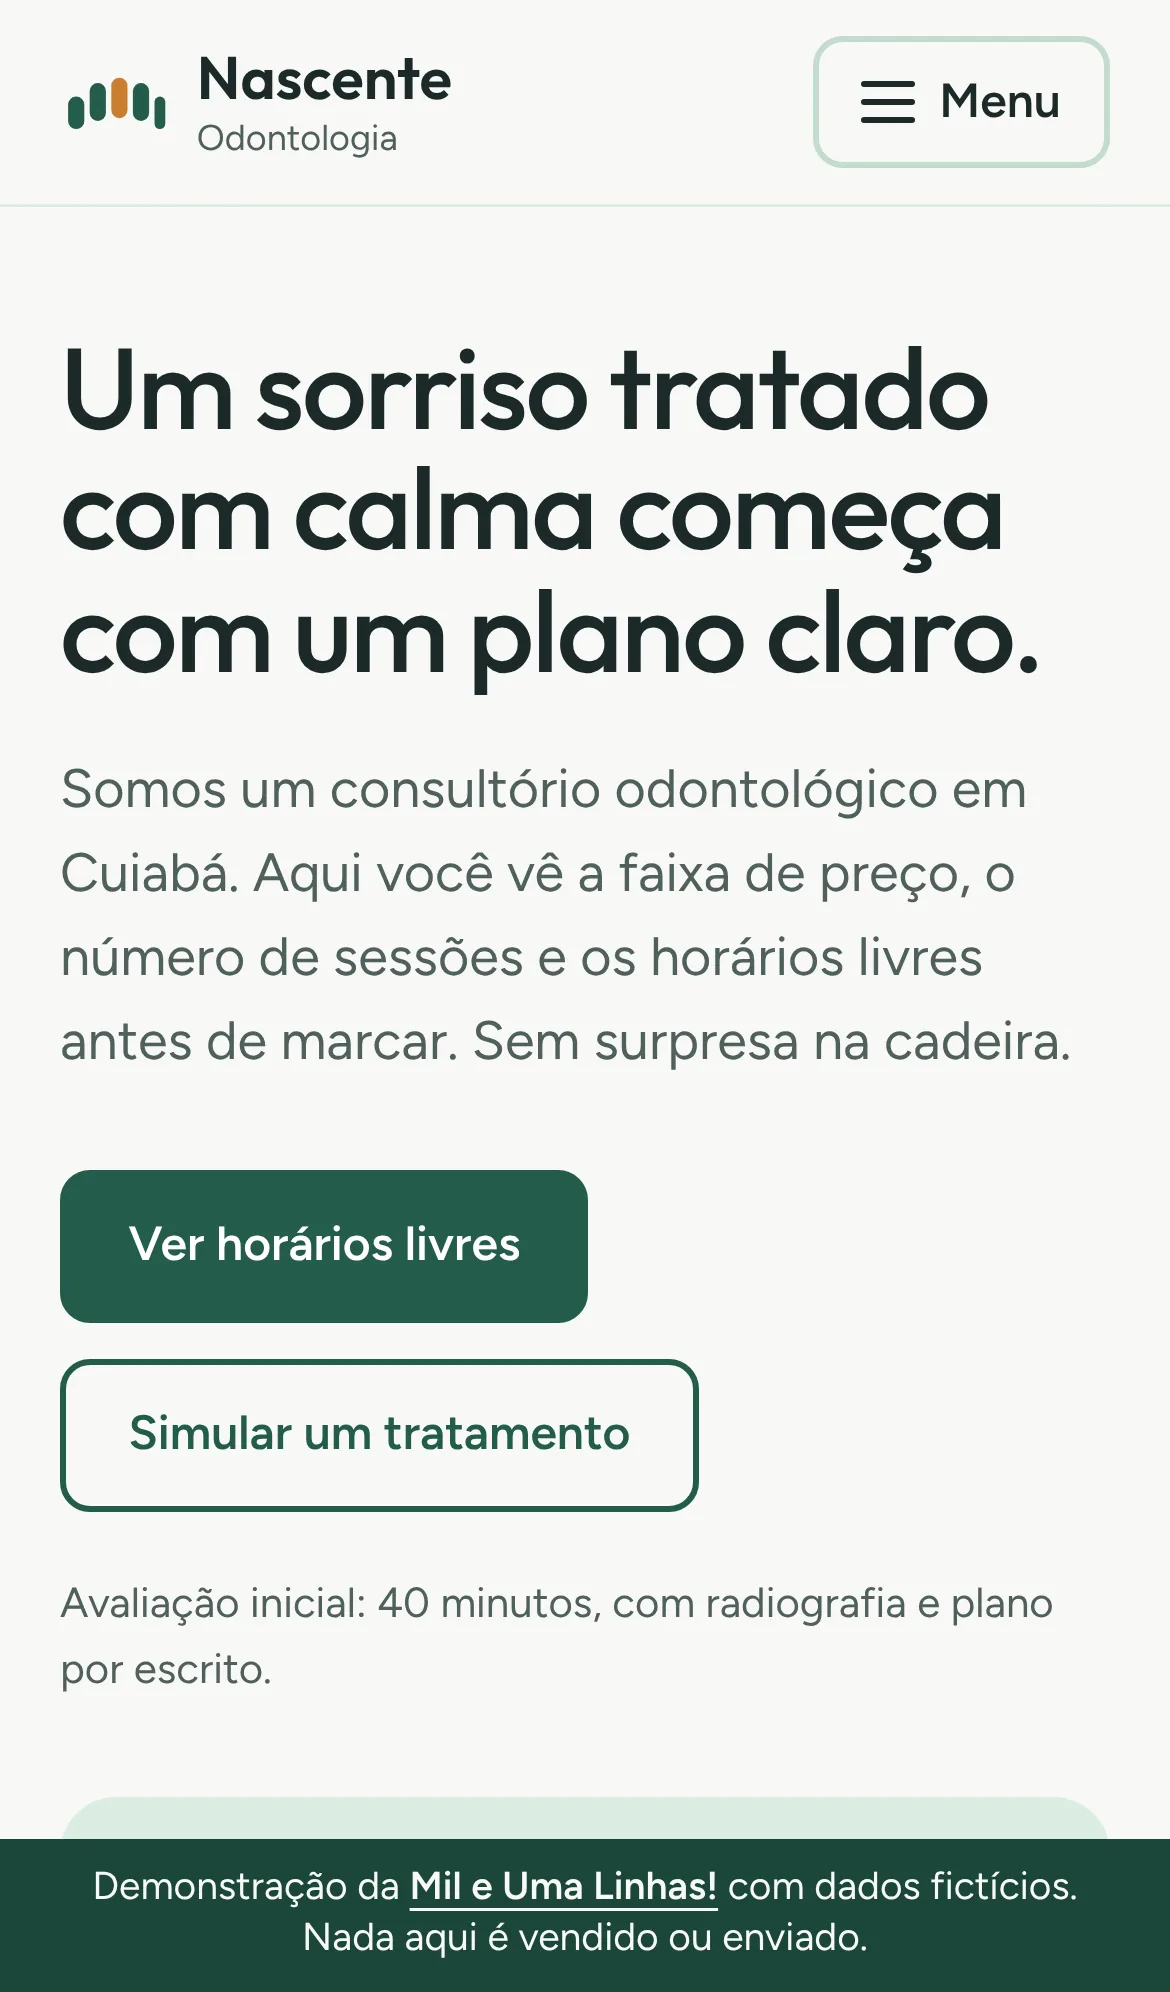
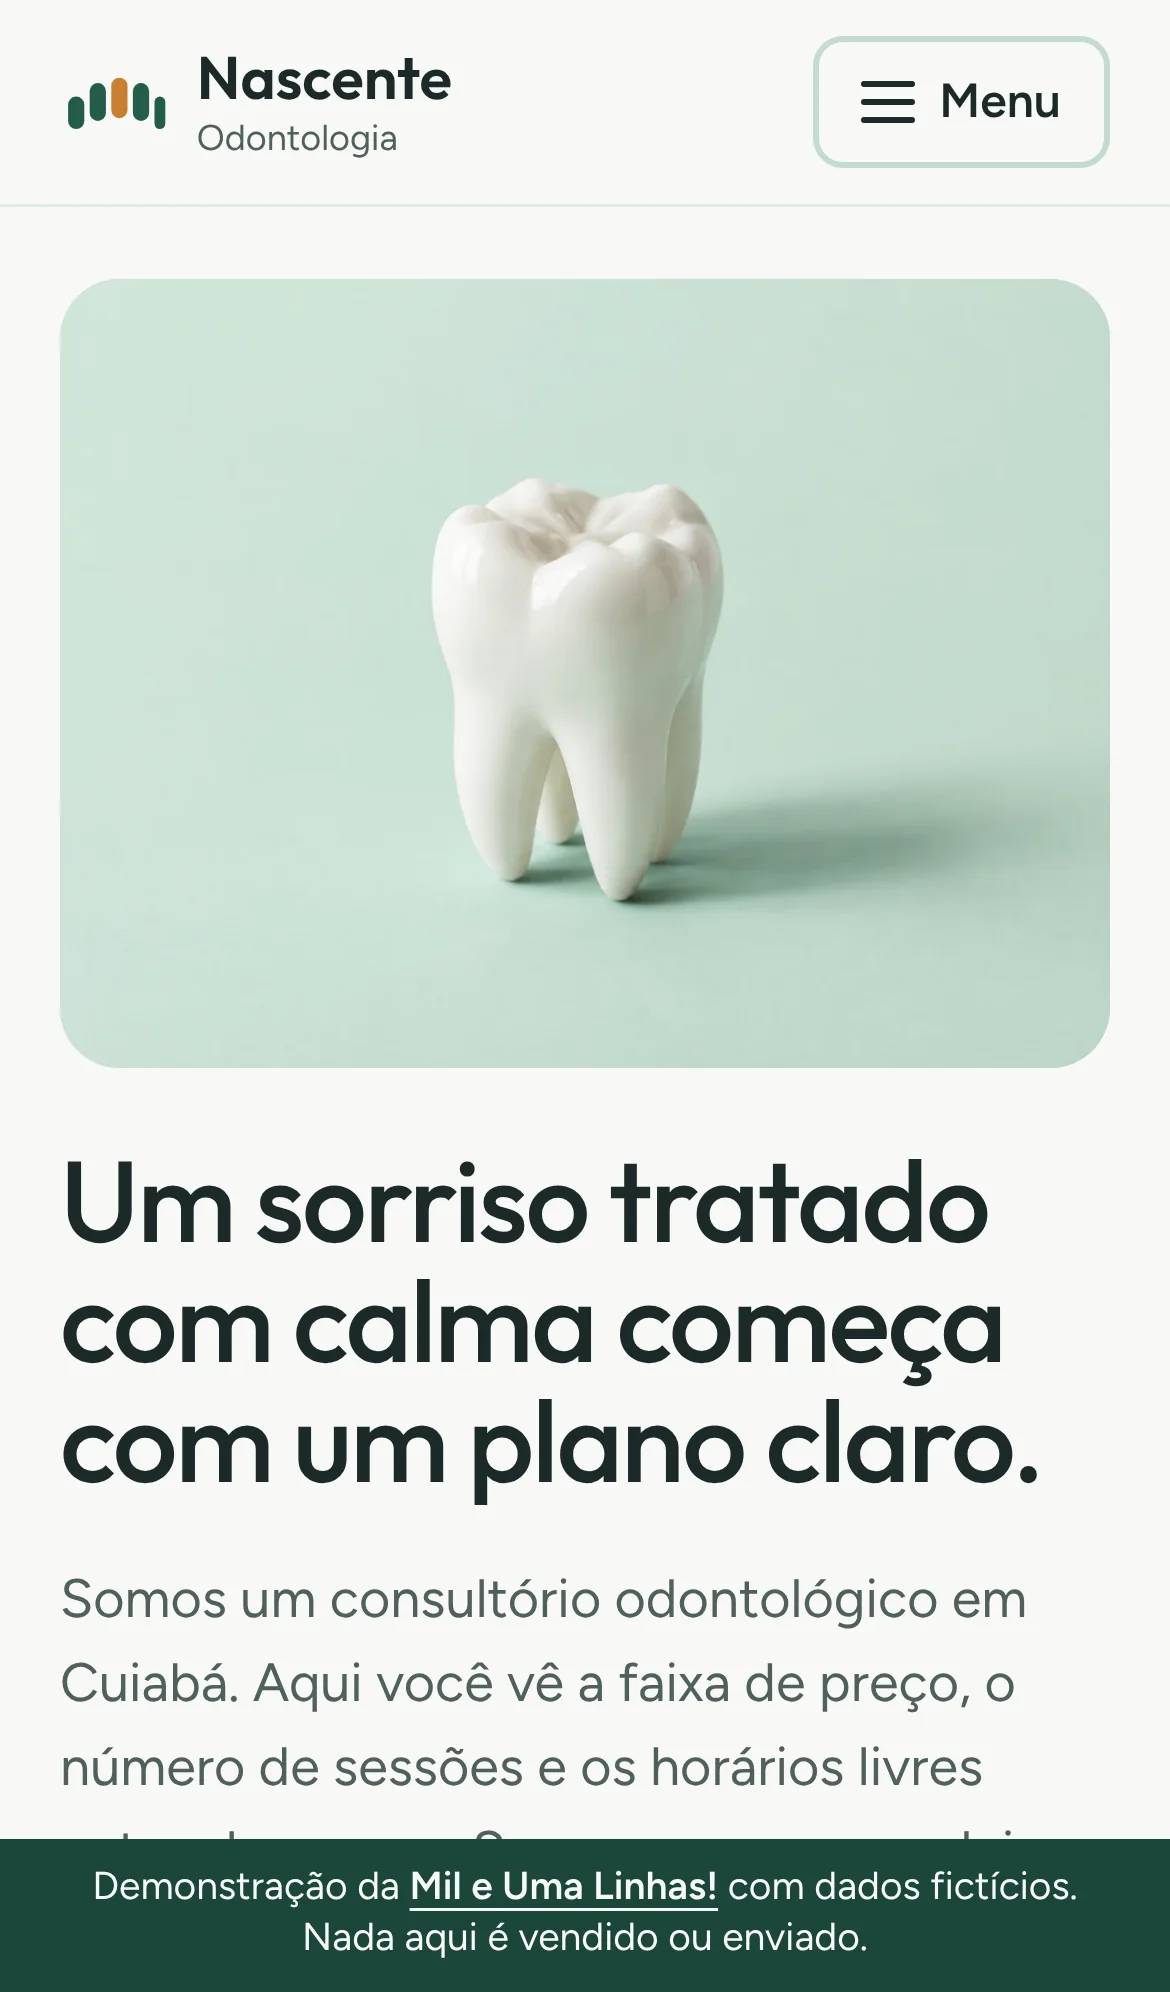
Troca o hero desenhado por foto gerada por IA
Substitui o arco de dentes em SVG do hero por uma foto de um molar de
porcelana sobre fundo verde-menta (img/hero.webp, 1440x1080, gerada por
IA no Canva e ilustrativa).

- index.html: img.hero-foto com width/height, alt descritivo e
  fetchpriority=high dentro de um contêiner 4:3; CSP mantida.
- css/estilo.css: contêiner com aspect-ratio 4/3, object-fit cover,
  cantos de 20 px (28 px no computador) e cor média da foto como fundo
  enquanto carrega; no celular a foto abre a página e o texto vem logo
  abaixo; removidos os estilos e animações do arco SVG; a abertura passa
  a ser uma leve ampliação da foto, desligada com reduced-motion.
- tests/site.cjs: confere que a foto carregou, tem alt, 4:3, cabe na tela
  e que nenhum texto do hero fica por cima dela.
- docs/identidade.md, README.md, docs/vistoria.md: descrevem a foto, o
  aviso de que é gerada por IA e o prompt resumido.
- docs/capa-desktop.webp e docs/capa-celular.webp refeitas.

Claude-Session: https://claude.ai/code/session_015DVsuVad392kn1wvAjF541

diff --git a/css/estilo.css b/css/estilo.css
@@ -223,9 +223,9 @@ code { font-family: ui-monospace, "Cascadia Mono", Menlo, monospace; font-size: 
 .hero {
   max-width: var(--largura);
   margin: 0 auto;
-  padding: 2.5rem var(--margem) 3rem;
+  padding: 1.5rem var(--margem) 3rem;
   display: grid;
-  gap: 2rem;
+  gap: 1.5rem;
   align-items: center;
 }
 .hero h1 {
@@ -247,40 +247,38 @@ code { font-family: ui-monospace, "Cascadia Mono", Menlo, monospace; font-size: 
   gap: 0.75rem;
 }
 .hero-nota { margin-top: 1.25rem; font-size: 0.875rem; color: var(--pedra); }
-.hero-imagem { max-width: 560px; }
-.arco { width: 100%; height: auto; }
-.arco-fundo { fill: var(--hortela); }
-.dente { fill: var(--branco); stroke: var(--hortela-escura); stroke-width: 2; }
-.dente-brilho { fill: var(--branco); }
-.arco-linha { fill: none; stroke: var(--cerrado); stroke-width: 3; stroke-linecap: round; }
-.arco-ponto { fill: var(--mel); }
+.hero-imagem {
+  max-width: 560px;
+  width: 100%;
+  aspect-ratio: 4 / 3;
+  border-radius: 20px;
+  overflow: hidden;
+  background: #C6DACE; /* média da foto: aparece enquanto ela carrega */
+}
+@media (max-width: 899px) {
+  .hero-imagem { order: -1; } /* no celular a foto abre a página, o texto vem logo abaixo */
+}
+.hero-foto {
+  display: block;
+  width: 100%;
+  height: 100%;
+  object-fit: cover;
+}
 
 @media (min-width: 900px) {
   .hero {
     grid-template-columns: 1.05fr 1fr;
+    gap: 2rem;
     padding-top: 4rem;
     padding-bottom: 4.5rem;
   }
+  .hero-imagem { border-radius: 28px; }
 }
 
-/* Movimento de abertura: os dentes sobem até o arco */
+/* Movimento de abertura: a foto aparece com uma leve ampliação */
 @media (prefers-reduced-motion: no-preference) {
-  .dente {
-    animation: subir 700ms cubic-bezier(0.2, 0.7, 0.2, 1) both;
-    transform-origin: center bottom;
-  }
-  .dentes .dente:nth-child(1) { animation-delay: 0ms; }
-  .dentes .dente:nth-child(2) { animation-delay: 70ms; }
-  .dentes .dente:nth-child(3) { animation-delay: 140ms; }
-  .dentes .dente:nth-child(4) { animation-delay: 210ms; }
-  .dentes .dente:nth-child(5) { animation-delay: 280ms; }
-  .dentes .dente:nth-child(6) { animation-delay: 350ms; }
-  .dentes .dente:nth-child(7) { animation-delay: 420ms; }
-  .arco-linha { stroke-dasharray: 600; stroke-dashoffset: 600; animation: tracar 900ms 400ms ease-out forwards; }
-  .arco-ponto { opacity: 0; animation: aparecer 300ms 1100ms ease-out forwards; }
-  @keyframes subir { from { transform: translateY(40px); opacity: 0; } to { transform: translateY(0); opacity: 1; } }
-  @keyframes tracar { to { stroke-dashoffset: 0; } }
-  @keyframes aparecer { to { opacity: 1; } }
+  .hero-foto { animation: foto-entra 800ms cubic-bezier(0.2, 0.7, 0.2, 1) both; }
+  @keyframes foto-entra { from { opacity: 0; transform: scale(1.04); } to { opacity: 1; transform: scale(1); } }
 }
 
 /* Seções */

diff --git a/index.html b/index.html
@@ -54,21 +54,8 @@
       </div>
       <p class="hero-nota">Avaliação inicial: 40 minutos, com radiografia e plano por escrito.</p>
     </div>
-    <div class="hero-imagem" aria-hidden="true">
-      <svg class="arco" viewBox="0 0 520 360" focusable="false">
-        <rect class="arco-fundo" x="0" y="0" width="520" height="360" rx="28"/>
-        <g class="dentes">
-          <rect class="dente" x="52"  y="190" width="48" height="96" rx="24"/>
-          <rect class="dente" x="112" y="150" width="50" height="118" rx="25"/>
-          <rect class="dente" x="174" y="118" width="54" height="138" rx="27"/>
-          <rect class="dente dente-brilho" x="240" y="104" width="56" height="150" rx="28"/>
-          <rect class="dente" x="308" y="118" width="54" height="138" rx="27"/>
-          <rect class="dente" x="372" y="150" width="50" height="118" rx="25"/>
-          <rect class="dente" x="432" y="190" width="48" height="96" rx="24"/>
-        </g>
-        <path class="arco-linha" d="M40 302 Q260 380 480 302"/>
-        <circle class="arco-ponto" cx="268" cy="132" r="7"/>
-      </svg>
+    <div class="hero-imagem">
+      <img class="hero-foto" src="img/hero.webp" width="1440" height="1080" alt="Molar de porcelana branca e brilhante, em pé sobre um fundo liso verde-menta, com uma sombra suave ao lado." fetchpriority="high">
     </div>
   </section>
 

diff --git a/docs/identidade.md b/docs/identidade.md
@@ -58,16 +58,26 @@ Sem rótulos em caixa alta acima dos títulos. Sem numeração 01/02/03.
 
 ## Imagem forte
 
-O hero tem um **arco de sorriso em SVG**: oito formas de dente desenhadas como retângulos arredondados distribuídos em um arco, sobre um fundo Hortelã, com um brilho em Mel em um único dente. É geometria, não um sorriso realista. O mesmo desenho, menor, vira o símbolo da marca no cabeçalho.
+O hero é uma **foto gerada por IA (Canva)**: um molar de porcelana branca, brilhante, em pé sobre um fundo liso verde-menta, com uma sombra curta e macia. Ela é ilustrativa, não é de paciente nem de consultório real. A menta da foto conversa com o Hortelã da paleta, e o dente, sozinho e com muito ar em volta, é a "coisa memorável" da primeira tela. O contêiner tem proporção fixa de 4:3 e cantos de 20 px no celular e 28 px no computador, o mesmo raio dos blocos grandes. Enquanto a foto carrega, o contêiner mostra a cor média dela, para a página não dar salto.
 
-Na galeria "antes e depois", os sorrisos também são SVG estilizados: lábios em uma forma simples e dentes em retângulos arredondados. Mudam a cor, a inclinação ou o contorno de um dente para mostrar clareamento, alinhamento e restauração. Nada de fotos.
+O símbolo da marca no cabeçalho continua sendo um desenho SVG de cinco barras arredondadas (um arco de dentes), com uma em Mel.
+
+Na galeria "antes e depois", os sorrisos são SVG estilizados: lábios em uma forma simples e dentes em retângulos arredondados. Mudam a cor, a inclinação ou o contorno de um dente para mostrar clareamento, alinhamento e restauração. São desenhos, não fotos de pacientes.
+
+### Foto do hero
+
+- **Arquivo**: `img/hero.webp`, 1440 x 1080 px, proporção 4:3.
+- **Origem**: gerada por IA no Canva. Fica avisado no README e aqui, porque é uma imagem ilustrativa.
+- **Prompt resumido**: "Molar de porcelana branca e brilhante, em pé, fotografado de frente em leve ângulo, centralizado, sobre fundo liso verde-menta. Luz suave de estúdio, sombra curta e macia à direita, muito espaço livre em volta. Estilo editorial de site premium, sem texto, sem pessoas, proporção 4:3."
+- **Texto alternativo**: "Molar de porcelana branca e brilhante, em pé sobre um fundo liso verde-menta, com uma sombra suave ao lado."
+- **Texto do hero**: fica ao lado da foto no computador e abaixo dela no celular, nunca por cima. Por isso o contraste do texto é o da página (Grafite sobre Esmalte), não depende da foto.
 
 ## Movimento
 
-- Um momento orquestrado: na abertura, os oito dentes do hero sobem até o arco, em sequência, em 700 ms.
+- Um momento orquestrado: na abertura, a foto do hero aparece com uma leve ampliação, em 800 ms.
 - Respostas a ações: horário escolhido muda para Mel, o controle deslizante acompanha o dedo, o resultado do simulador muda de valor com uma transição curta.
 - Com `prefers-reduced-motion: reduce`, tudo aparece sem animação.
 
 ## Regra de ouro
 
-Uma coisa memorável por tela: o arco de dentes no hero, o calendário na agenda, o número em Mel no simulador, o controle deslizante na galeria. O resto fica quieto.
+Uma coisa memorável por tela: o dente de porcelana no hero, o calendário na agenda, o número em Mel no simulador, o controle deslizante na galeria. O resto fica quieto.

diff --git a/README.md b/README.md
@@ -41,7 +41,7 @@ O estudo completo está em [`docs/identidade.md`](docs/identidade.md).
 - **Nome**: Nascente Odontologia. Água limpa que brota e o começo de um sorriso novo. Nada de "odontoclínica".
 - **Paleta**: Esmalte `#F7F8F5` (fundo), Grafite `#1C2A2A` (texto), Cerrado `#245C4C` (cor da marca, botões e links), Hortelã `#DCEDE3` (superfícies de apoio), Mel `#C97E2E` (destaque, um por tela), Pedra `#50605D` (texto secundário). Fugi do azul-clínico genérico: as cores vêm do Cerrado e da porcelana. Todos os pares de texto passam no contraste AA.
 - **Fontes**: Outfit nos títulos (geométrica, redonda, lembra um alinhador) e Figtree no corpo (humanista, legível no celular). As duas são variáveis, locais, licença SIL OFL.
-- **Imagem forte**: um arco de dentes desenhado em SVG no topo, com um ponto em Mel. Os sorrisos do "antes e depois" também são SVG estilizados, não fotos.
+- **Imagem forte**: uma foto de um molar de porcelana sobre fundo verde-menta no topo (`img/hero.webp`). **A foto foi gerada por IA no Canva e é só ilustrativa**; não é paciente nem consultório de verdade. Os sorrisos do "antes e depois" são desenhos SVG estilizados, não fotos.
 - **Regra**: uma coisa memorável por tela, o resto quieto. Sem rótulos em caixa alta, sem numeração decorativa, sem gradientes de enfeite.
 
 ## Como funciona por dentro

diff --git a/docs/vistoria.md b/docs/vistoria.md
@@ -19,7 +19,7 @@ font-src 'self'; connect-src 'none'; object-src 'none'; base-uri 'none'; form-ac
 - Sem estilo inline: todo o CSS está em `css/estilo.css`. A única alteração de estilo em tempo de execução é a variável `--pos` do comparador, feita por `element.style.setProperty`, que a CSP permite (é CSSOM, não atributo `style`).
 - `connect-src 'none'`: nenhum `fetch`, `XMLHttpRequest` ou WebSocket pode sair da página.
 - `form-action 'none'`: mesmo que o JavaScript falhe, o formulário de agendamento não consegue enviar nada a lugar nenhum.
-- `img-src 'self' data:` existe para o favicon SVG e eventuais imagens em `data:`; hoje só o favicon é usado.
+- `img-src 'self' data:` existe para o favicon SVG e eventuais imagens em `data:`; hoje são usados o favicon e a foto do hero (`img/hero.webp`), que é um arquivo do próprio site, sem pedido externo.
 - O `404.html` usa `script-src 'none'`, pois não tem JavaScript.
 - `frame-ancestors` não pode ser declarado por `meta`; o GitHub Pages não permite cabeçalhos HTTP próprios. Risco residual: a página pode ser colocada em um `iframe` por outro site. Como não há sessão nem dado sensível, o impacto é nulo.
 
